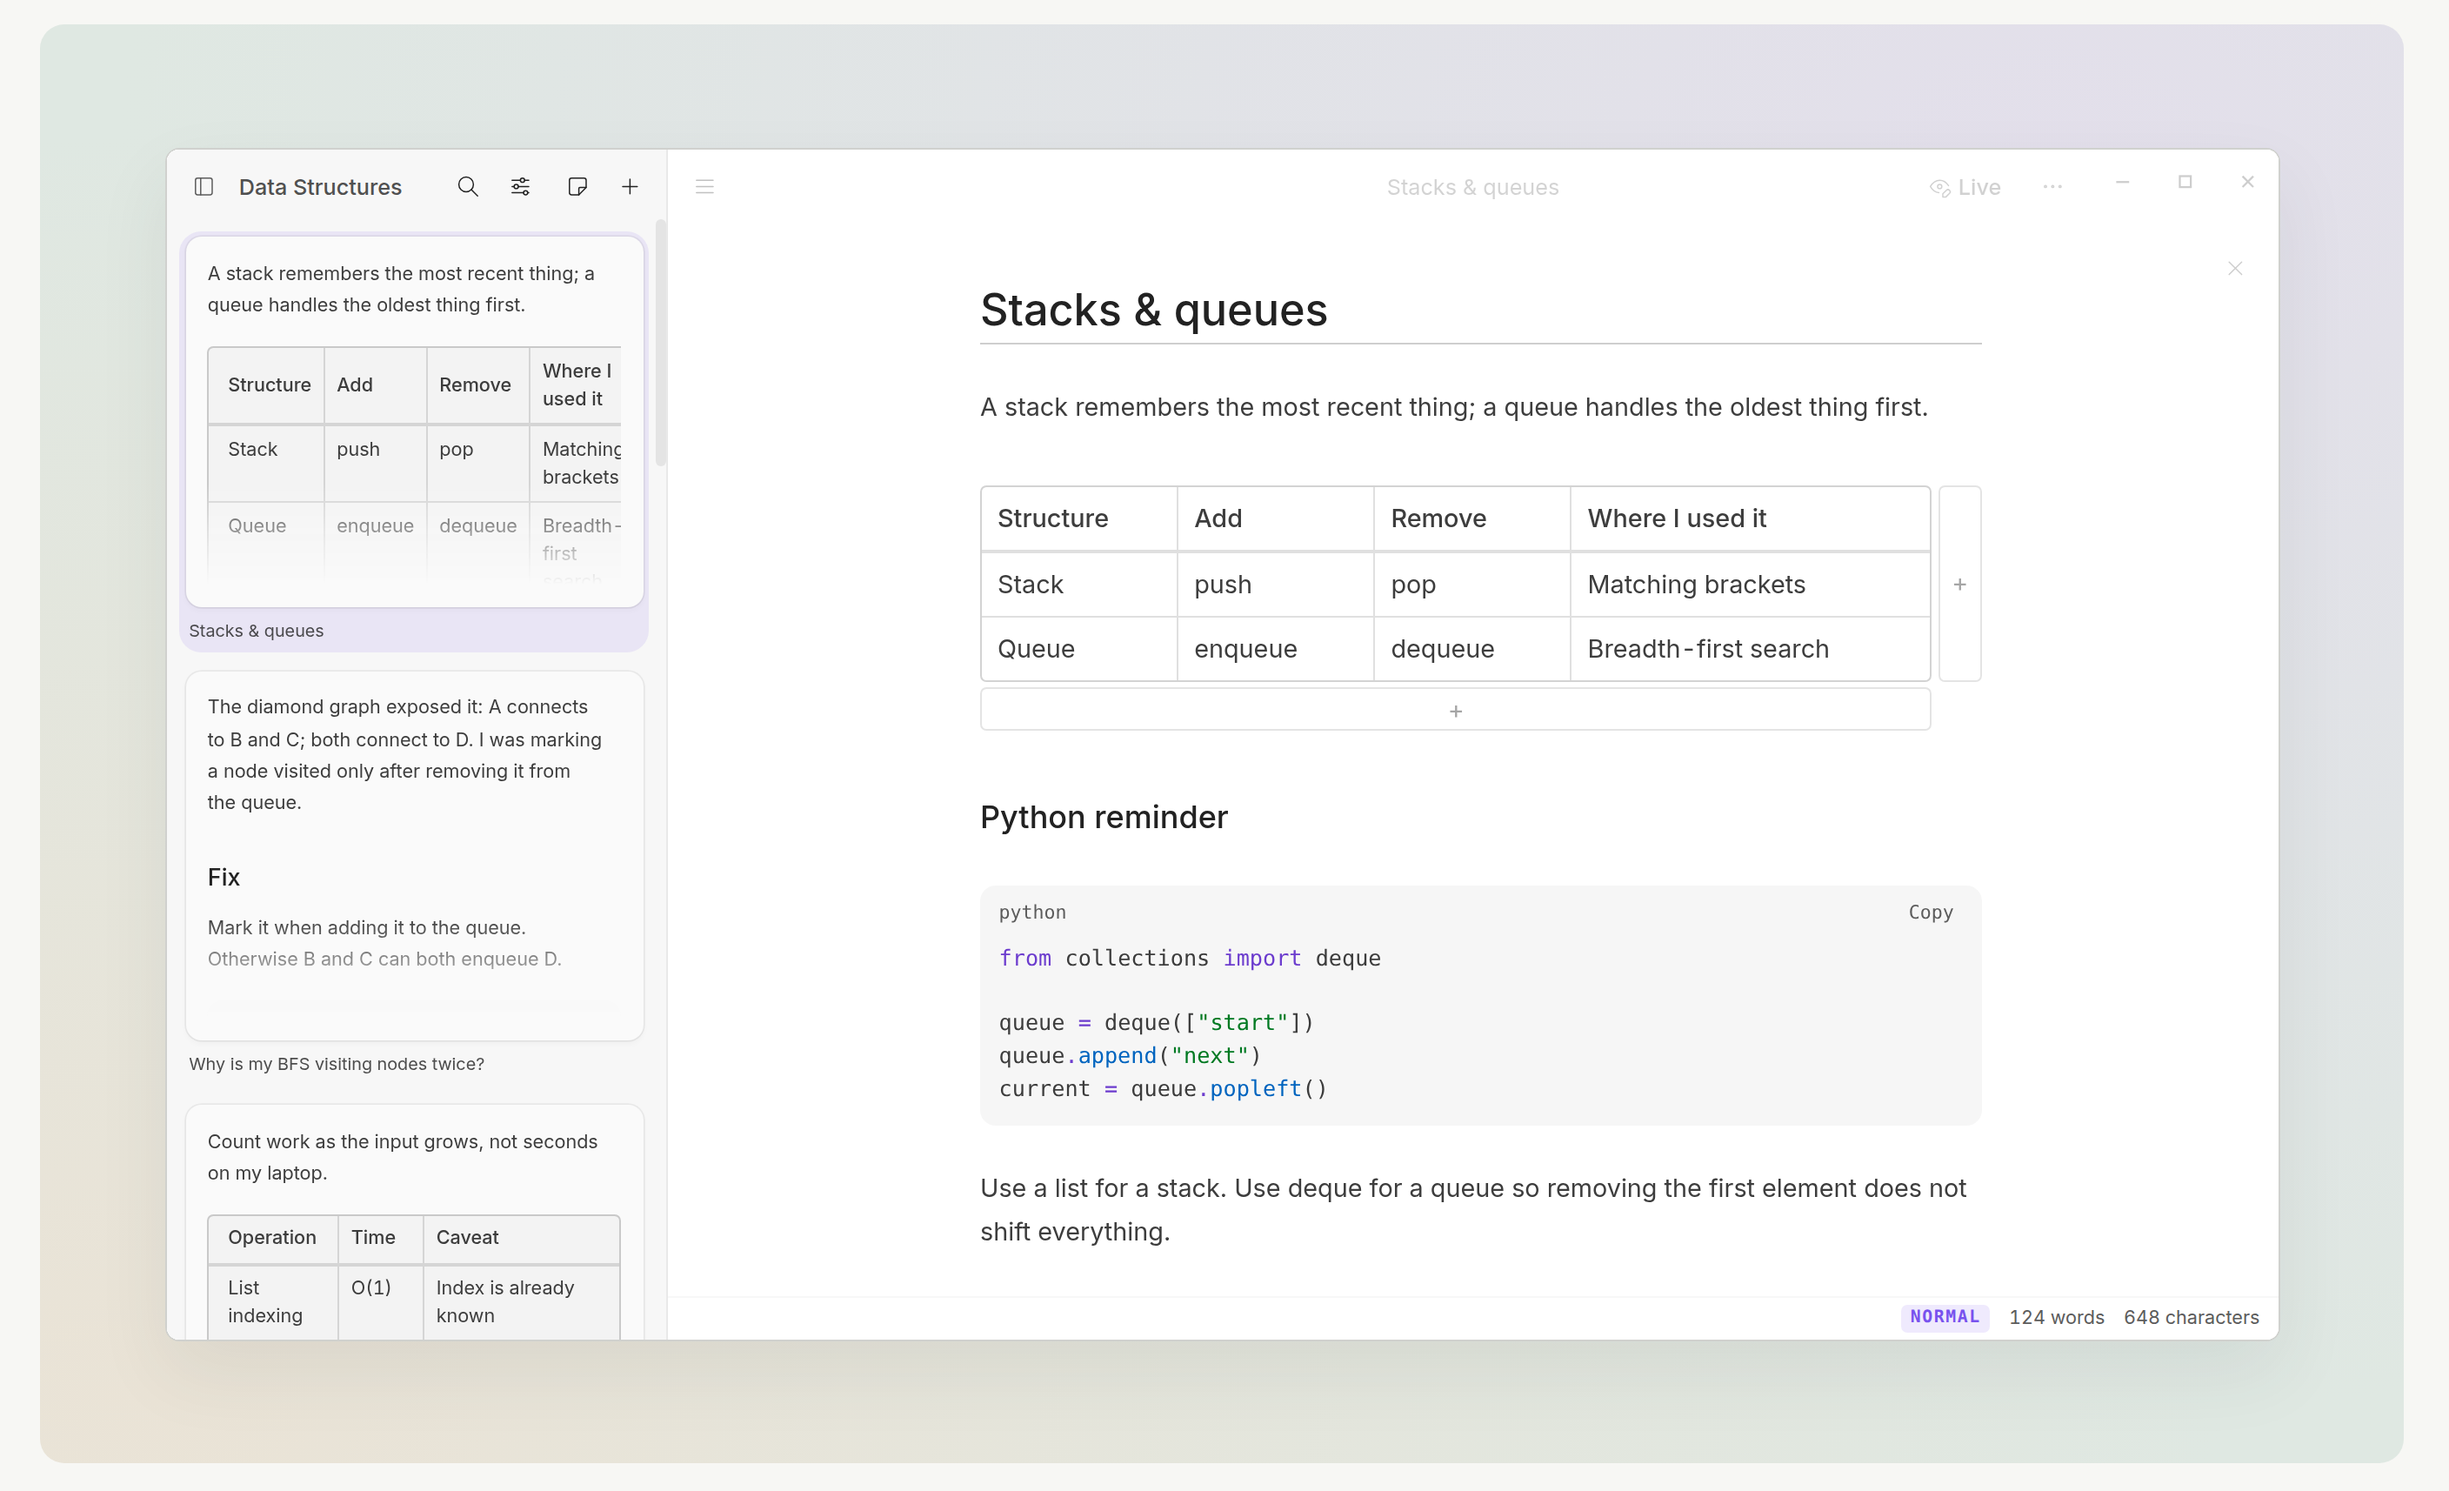
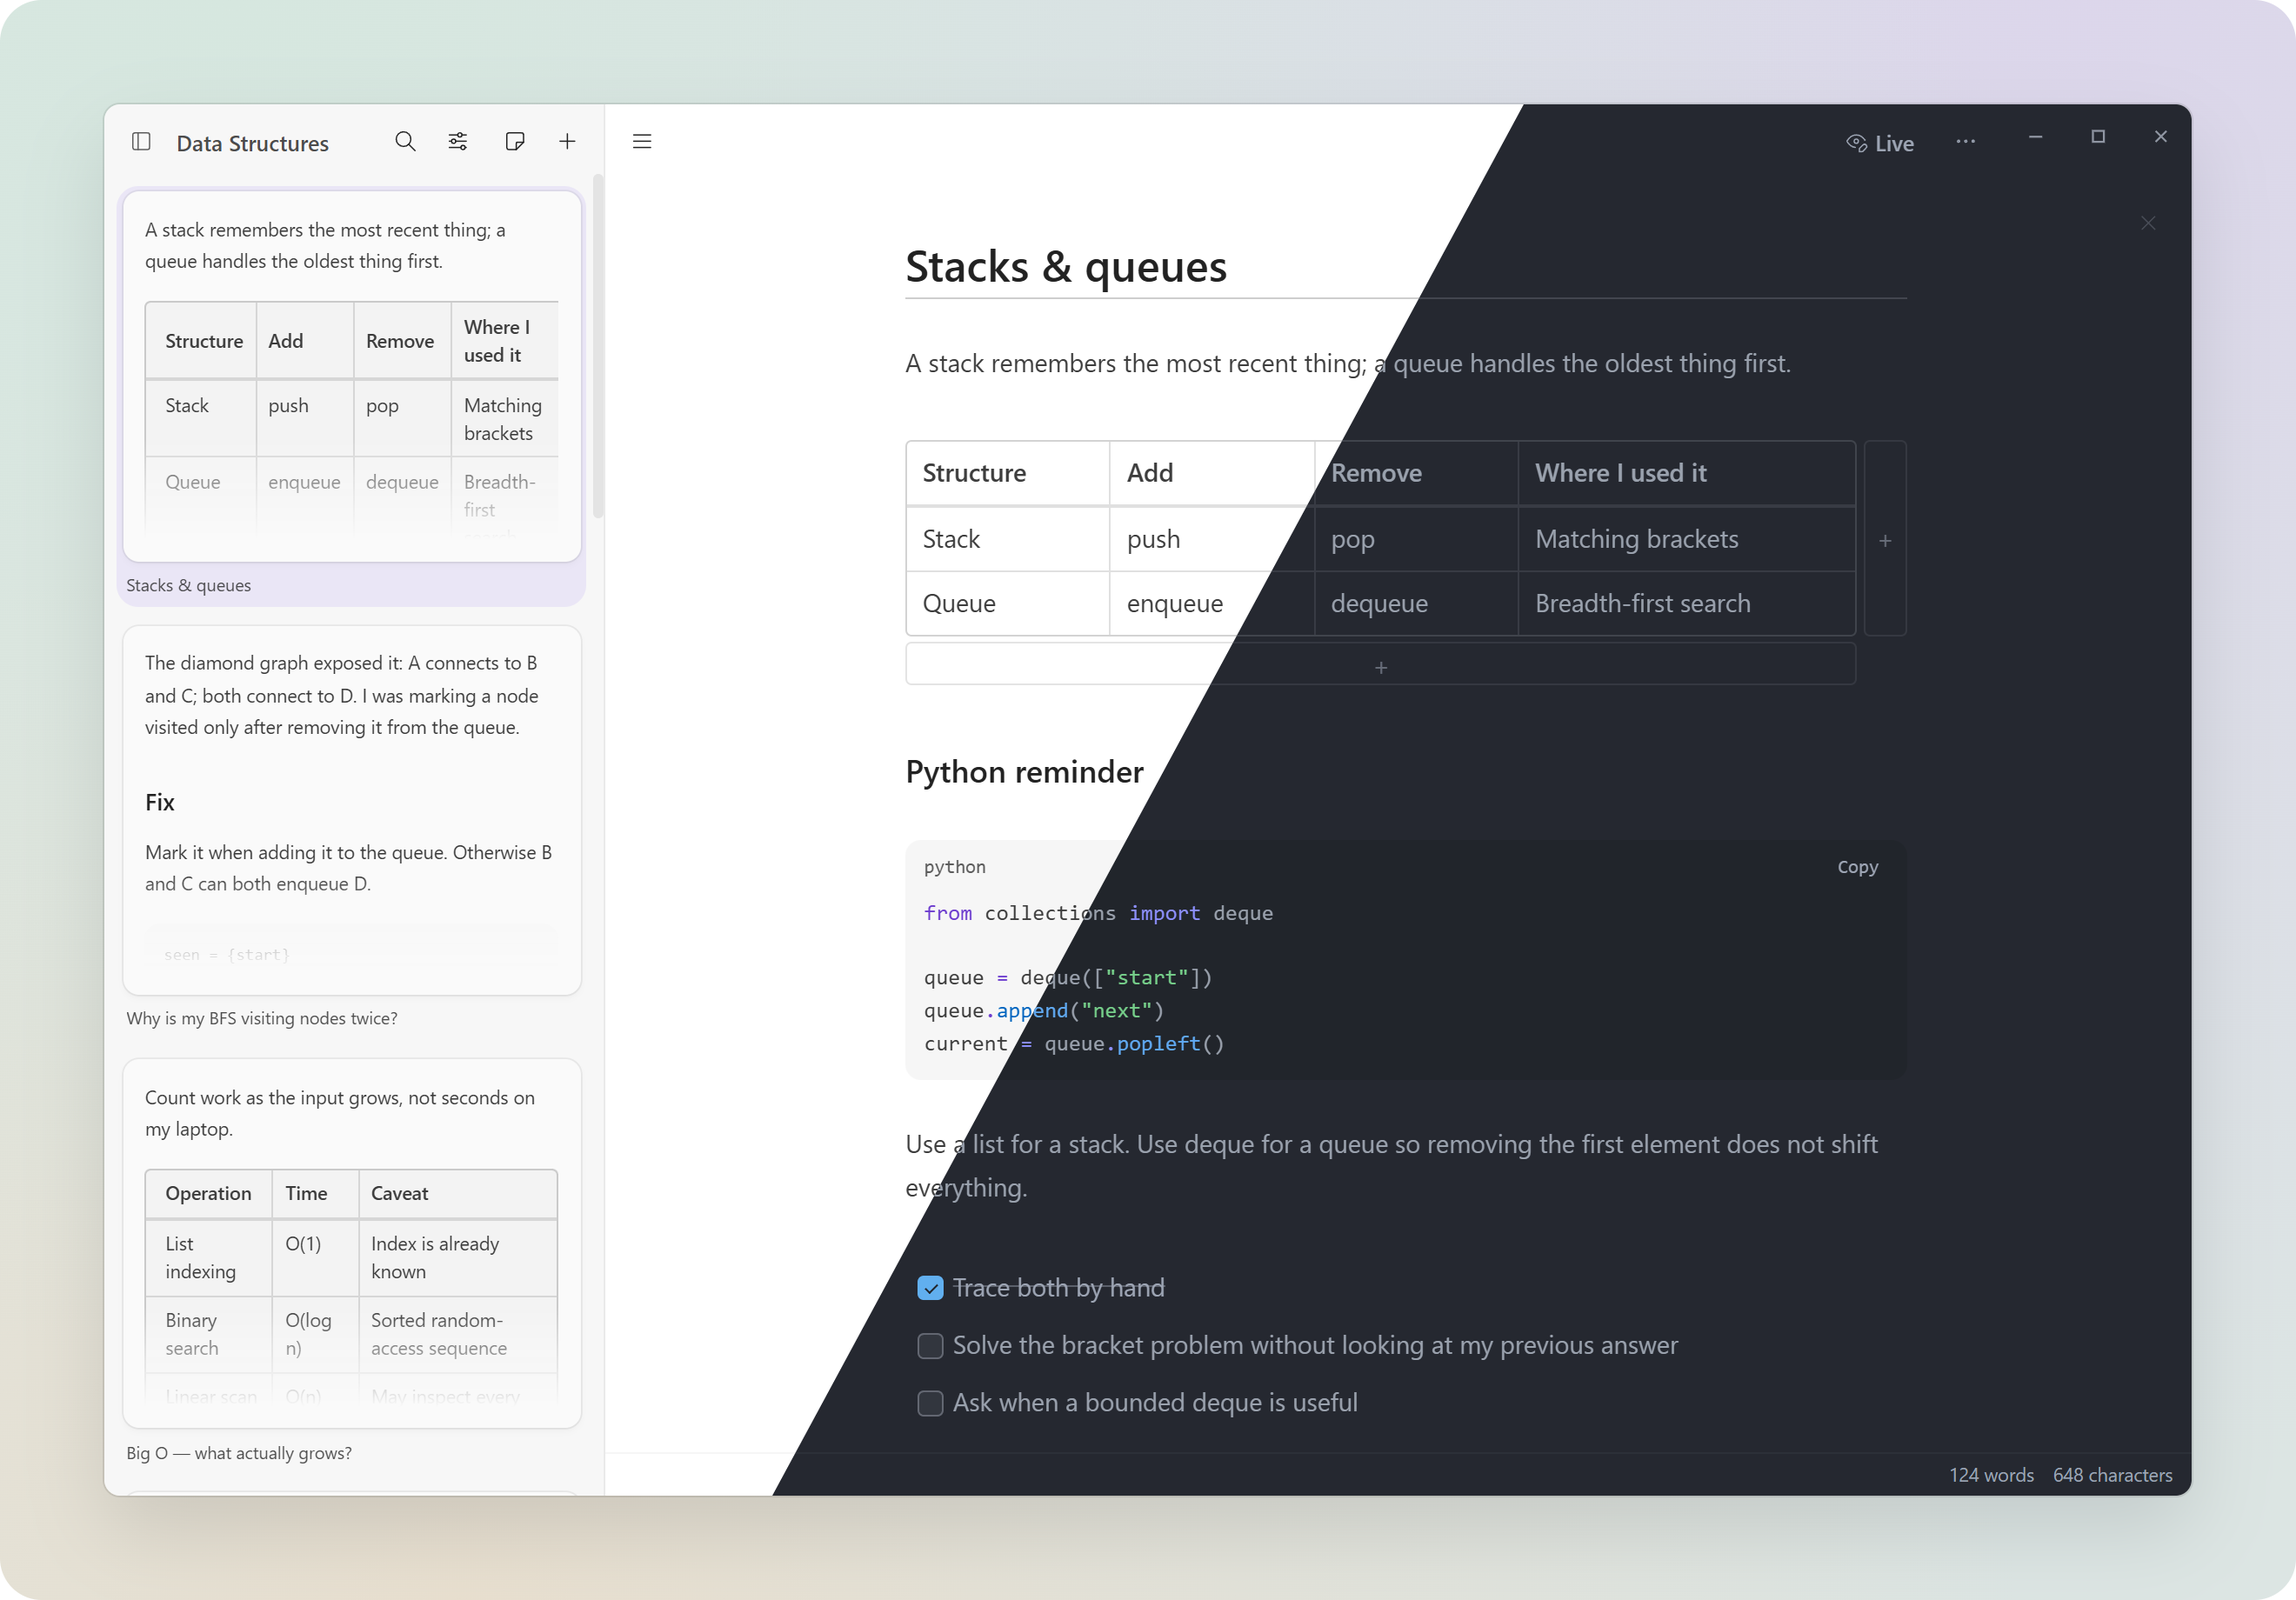
Refresh the README app screenshot

diff --git a/README.md b/README.md
@@ -4,7 +4,7 @@ Kuskus keeps your project references in one place: Markdown notes, images, files
 
 Kuskus is still taking shape, and contributions are welcome.
 
-[![Kuskus with Stacks & queues open in Vim Normal mode, framed by a soft pastel background](docs/images/demo.png)](https://kuskus-tau.vercel.app)
+[![Kuskus with Stacks & queues open in one window, split diagonally between light and One Dark themes on a rounded pastel gradient background](docs/images/demo.png)](https://kuskus-tau.vercel.app)
 
 ## Try it
 
